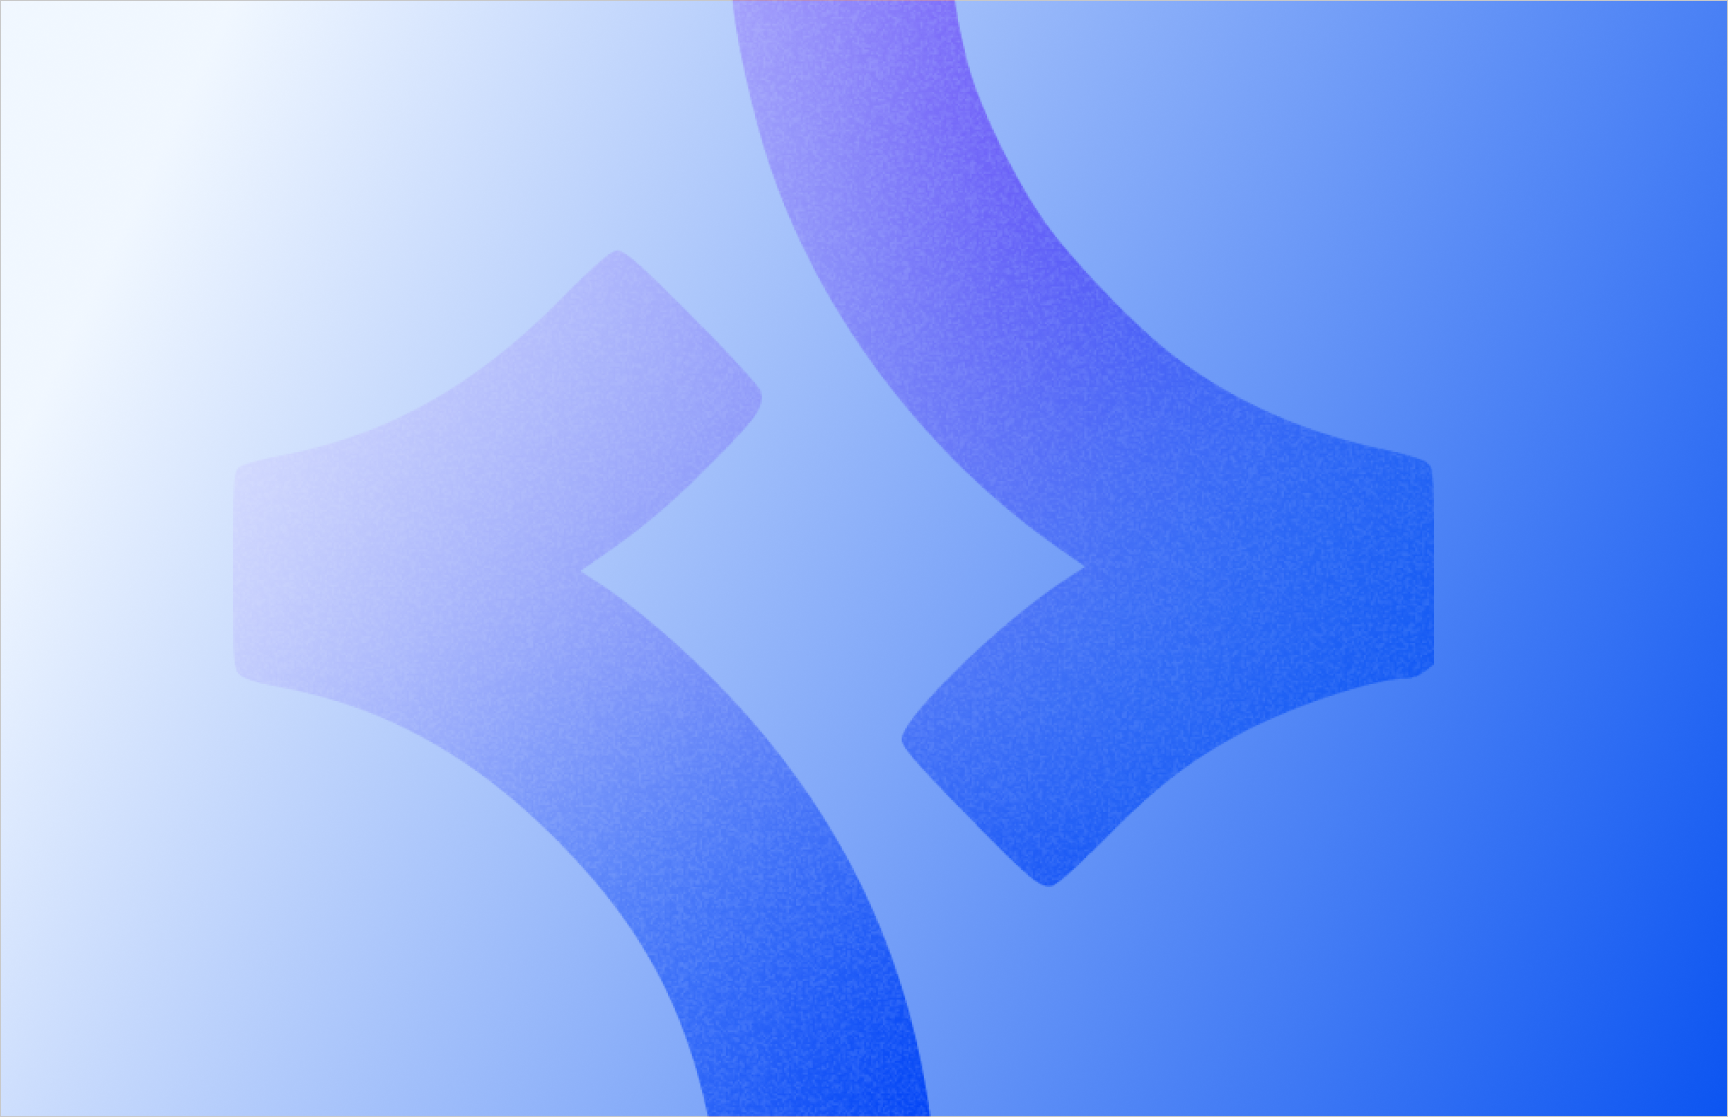
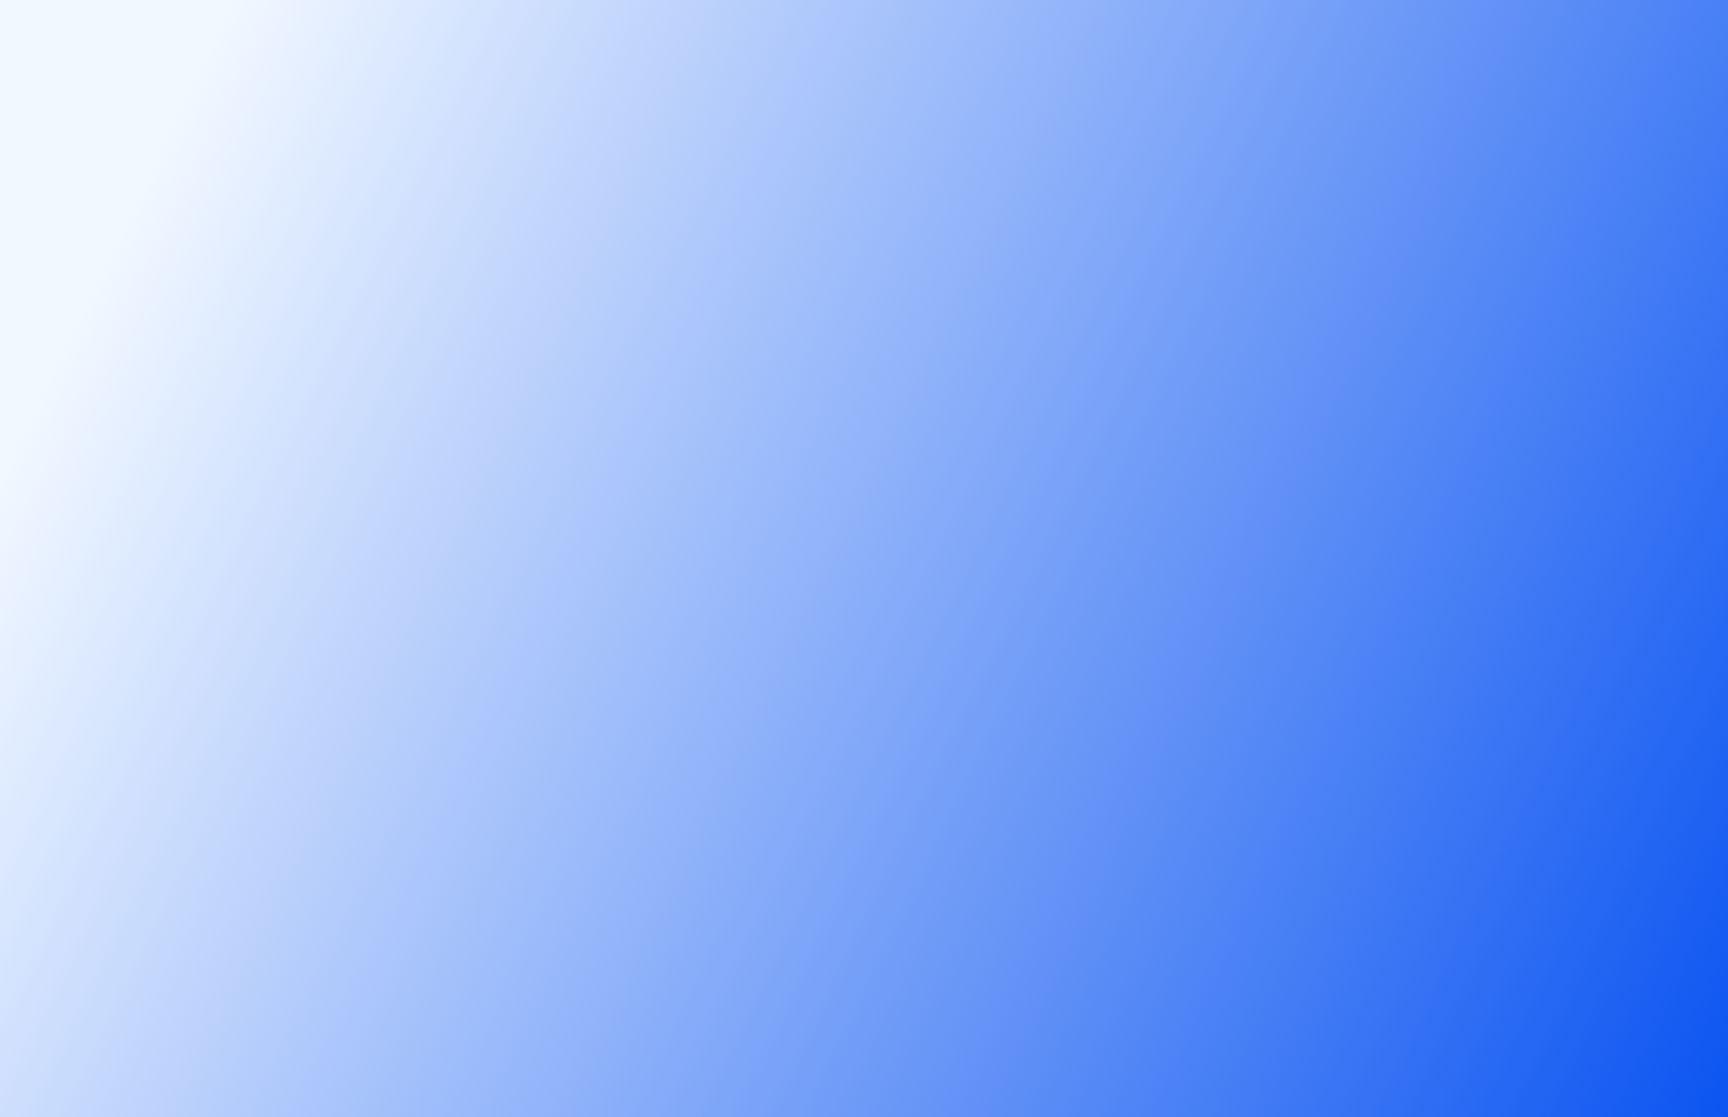
4

Changed region(s): [[0.4062, 0.0, 0.8438, 0.7914], [0.2188, 0.2131, 0.5625, 1.0]]

diff --git a/components/styles/auth.module.css b/components/styles/auth.module.css
@@ -1,0 +1,71 @@
+@import url('https://fonts.googleapis.com/css2?family=IBM+Plex+Mono:ital,wght@0,100;0,200;0,300;0,400;0,500;0,600;0,700;1,100;1,200;1,300;1,400;1,500;1,600;1,700&family=Inter:ital,opsz,wght@0,14..32,100..900;1,14..32,100..900&display=swap');
+
+.container {
+    width: 100vw;
+    height: 100vh;
+    overflow: hidden;
+    text-align: center;
+    display: flex;
+    flex-direction: column;
+    justify-content: center;
+    align-items: center;
+    background: url('../../assets/bg.png');
+    background-size: cover;
+    background-position: center;
+}
+
+.container h1 {
+    font-size: 40px;
+    font-weight: 700;
+    margin-bottom: 50px;
+
+}
+
+.container input {
+    box-sizing: border-box;
+    width: 40vw;
+    height: 90px;
+    padding: 30px;
+    background-color: #ebebeb;
+    color: rgb(22, 22, 22);
+    border: 3px solid #d3d3d3;
+    border-radius: 25px;
+    font-size: 20px;
+    cursor: pointer;
+    transition: all 0.3s ease-in-out;
+    font-family: 'IBM Plex Mono', monospace !important;
+    font-weight: 500;
+
+    &:focus {
+        outline: none;
+        border-color: #818181;
+    }
+}
+
+.formBox {
+    display: flex;
+    flex-direction: column;
+    align-items: center;
+    gap: 40px;
+}
+
+.container Button {
+    width: 40vw;
+    height: 80px;
+    border-radius: 25px;
+    font-size: 22px;
+    font-weight: 500;
+}
+
+.container p {
+    font-size: 24px;
+    color: #505050;
+}
+
+.container p a {
+    color: #242424;
+    text-decoration: none;
+    font-weight: 600;
+}
+
+

diff --git a/components/Signup.jsx b/components/Signup.jsx
@@ -1,14 +1,18 @@
 import React from 'react';
 import { Link } from 'react-router-dom';
+import styles from './styles/auth.module.css';
+import Button from './Button';
 
 export default function Signup() {
   return (
-    <div className="container">
-      <h1>Sign Up</h1>
-      <input type="email" placeholder="Enter Email" />
-      <input type="password" placeholder="Create Password" />
-      <input type="password" placeholder="Repeat Password" />
-      <button>Signup</button>
+    <div className={styles.container}>
+      <h1>SIGN UP</h1>
+      <div className={styles.formBox}>
+        <input type="email" placeholder="Enter Email" />
+        <input type="password" placeholder="Create Password" />
+        <input type="password" placeholder="Repeat Password" />
+        <Button >Signup</Button>
+      </div>
       <p>
         Already have an account? <Link to="/login">Login</Link>
       </p>

diff --git a/components/styles/upload.module.css b/components/styles/upload.module.css
@@ -7,13 +7,41 @@
     flex-direction: column;
     justify-content: center;
     align-items: center;
+    transition: all .5s ease-in-out;
 }
 
 .container h1 {
     font-size: 40px;
     font-weight: 600;
     margin-bottom: 50px;
+    z-index: 1;
 }
+
+.bgStar {
+    position: absolute;
+    top: 0;
+    left: 0;
+    background: linear-gradient(to bottom, #9897FB, #cccccc, #1452F7);
+    background-size: 200% 100%;
+    width: 100%;
+    height: 100%;
+    mask-image: url('../../assets/AIStar.png');
+    mask-size: contain;
+    mask-position: center;
+    mask-repeat: no-repeat;
+    z-index: 0;
+    animation: shine 10s linear infinite;
+}
+
+@keyframes shine {
+    0% {
+      background-position: 200% 0;
+    }
+  
+    100% {
+      background-position: -200% 0;
+    }
+  }
 
 .uploadBox {
     background: rgba(255, 255, 255, 0.5);

diff --git a/components/Header.jsx b/components/Header.jsx
@@ -1,16 +1,21 @@
 import React from "react";
 import styles from "./styles/header.module.css";
 import logo from "../assets/logo.png";
+import Button from "./Button";
+import { Link } from "react-router-dom";
 
 export default function Header() {
     return (
         <div>
-            <h1 className={styles.header}>
+            <div className={styles.header}>
                 <div className={styles.logo}>
-                    <img src={logo} width={30}  alt="" />
-                    <span>Grading</span>
+                    <Link to="/">
+                        <img src={logo} width={30}  alt="" />
+                        <span>Grading</span>
+                    </Link>
                 </div>
-            </h1>
+               <Button><Link to="/login">Login</Link></Button>
+            </div>
         </div>
     );
 }

diff --git a/components/Login.jsx b/components/Login.jsx
@@ -1,13 +1,17 @@
 import React from 'react';
 import { Link } from 'react-router-dom';
+import styles from './styles/auth.module.css';
+import Button from './Button';
 
 export default function Login() {
   return (
-    <div className="container">
-      <h1>Login</h1>
-      <input type="email" placeholder="Enter Email" />
-      <input type="password" placeholder="Create Password" />
-      <button>Login</button>
+    <div className={styles.container}>
+      <div className={styles.formBox}>
+        <h1>LOGIN</h1>
+        <input type="email" placeholder="Enter Email" />
+        <input type="password" placeholder="Create Password" />
+        <Button>Login</Button>
+      </div>
       <p>
         Don't have an account? <Link to="/signup">SignUp</Link>
       </p>

diff --git a/components/styles/header.module.css b/components/styles/header.module.css
@@ -1,12 +1,16 @@
 .header {
+    box-sizing: border-box;
     display: flex;
     align-items: center;
-    height: 10vh;
-    padding: 0 50px;
+    justify-content: space-between;
+    height: 15vh;
+    padding: 10px 60px;
     position: absolute;
+    width: 100vw;
+    z-index: 999;
 }
 
-.logo {
+.logo a {
     display: flex;
     align-items: center;
     justify-content: center;
@@ -21,4 +25,10 @@
 .logo span {
     font-size: 25px;
     font-weight: 600;
+    color: #222222;
+}
+
+a {
+    text-decoration: none;
+    color: #fafafa;
 }

diff --git a/components/Upload.jsx b/components/Upload.jsx
@@ -33,6 +33,8 @@ export default function Upload() {
         className={styles.container}
         style={{ backgroundImage: `url(${bgImage})`, backgroundSize: 'cover', backgroundPosition: 'center' }}
       >
+        <div className={styles.bgStar}>
+        </div>
         <h1>{file !== null ? "Assignment Uploaded Successfully " : "Upload Assignment PDF for grading"}</h1>
         {file !== null ? (
           <div className={styles.uploadedBox}>

diff --git a/components/styles/loading.module.css b/components/styles/loading.module.css
@@ -46,7 +46,7 @@
   width: 70vw;
   height: 100vh;
   background: url('../../assets/loadingbg.png');
-  background-size: cover;
+  background-size: contain;
   background-position: center;
   color: #333;
   font-size: 16px;
